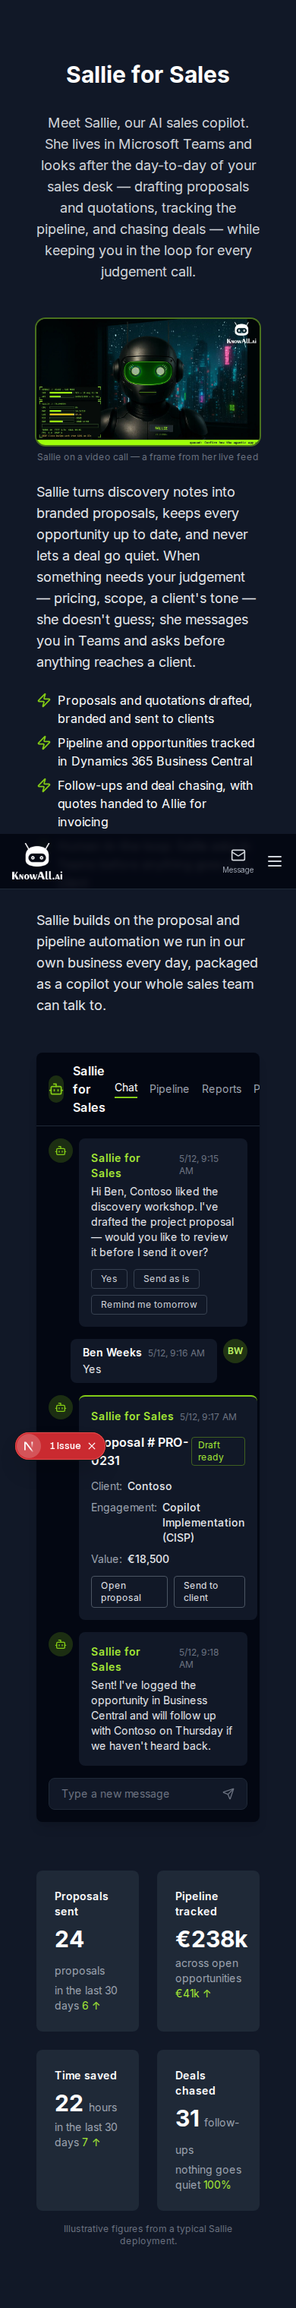
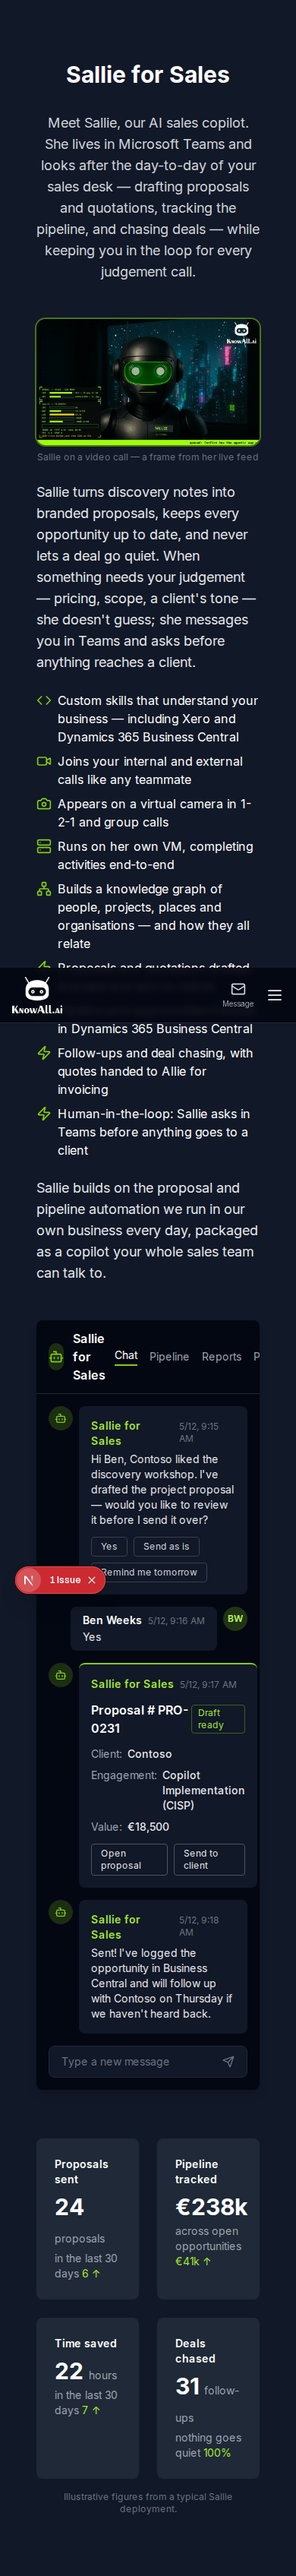
feat: add Sallie capability bullets (skills, calls, VM, camera, knowledge graph)
Per Ben: custom business skills incl. Xero and Business Central, joins
internal/external calls, virtual camera in 1-2-1 and group calls, her
own VM for completing activities, and a knowledge graph of people,
projects, places and organisations.

Claude-Session: https://claude.ai/code/session_01UzJ7i2xhbqKdiKk7eGYZvx

Changed region(s): [[0.0308, 0.0, 0.8923, 0.9898], [0.9231, 0.3712, 0.9538, 0.4021], [0.7692, 0.7733, 0.8, 0.8042]]

diff --git a/app/page.tsx b/app/page.tsx
@@ -15,6 +15,10 @@ import {
   ListChecks,
   Users,
   Send,
+  Video,
+  Camera,
+  Server,
+  Network,
 } from 'lucide-react';
 import EmailIcon from '@/components/email-icon';
 import { Button } from '@/components/ui/button';
@@ -580,6 +584,32 @@ export default function Home() {
                 asks before anything reaches a client.
               </p>
               <ul className="space-y-2 mb-6">
+                <li className="flex items-start gap-2">
+                  <Code className="h-5 w-5 text-lime-500 mt-0.5 flex-shrink-0" />
+                  <span>
+                    Custom skills that understand your business &mdash; including Xero and Dynamics
+                    365 Business Central
+                  </span>
+                </li>
+                <li className="flex items-start gap-2">
+                  <Video className="h-5 w-5 text-lime-500 mt-0.5 flex-shrink-0" />
+                  <span>Joins your internal and external calls like any teammate</span>
+                </li>
+                <li className="flex items-start gap-2">
+                  <Camera className="h-5 w-5 text-lime-500 mt-0.5 flex-shrink-0" />
+                  <span>Appears on a virtual camera in 1-2-1 and group calls</span>
+                </li>
+                <li className="flex items-start gap-2">
+                  <Server className="h-5 w-5 text-lime-500 mt-0.5 flex-shrink-0" />
+                  <span>Runs on her own VM, completing activities end-to-end</span>
+                </li>
+                <li className="flex items-start gap-2">
+                  <Network className="h-5 w-5 text-lime-500 mt-0.5 flex-shrink-0" />
+                  <span>
+                    Builds a knowledge graph of people, projects, places and organisations &mdash;
+                    and how they all relate
+                  </span>
+                </li>
                 <li className="flex items-start gap-2">
                   <Zap className="h-5 w-5 text-lime-500 mt-0.5 flex-shrink-0" />
                   <span>Proposals and quotations drafted, branded and sent to clients</span>
